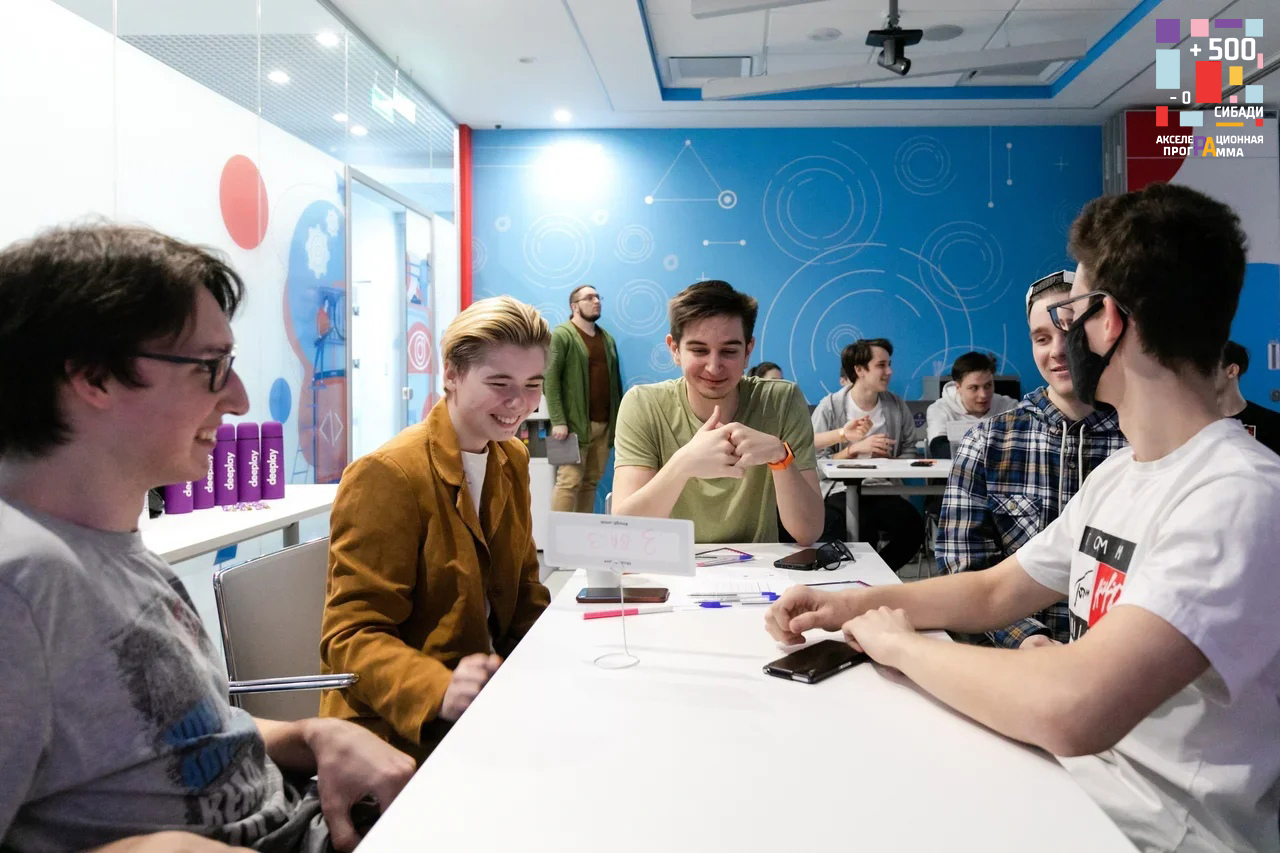
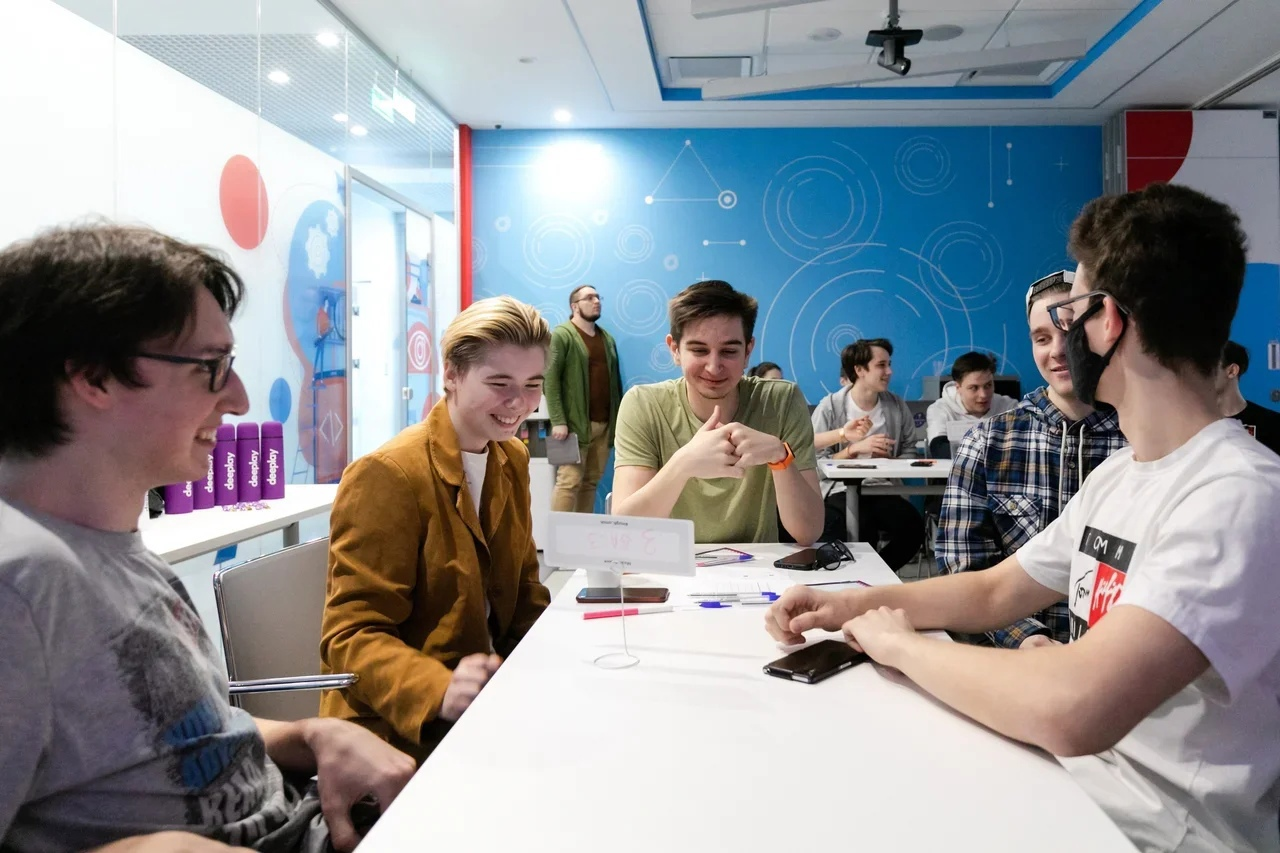
edit photos

Changed region(s): [[0.9062, 0.0, 1.0, 0.1829]]

diff --git a/src/App.vue b/src/App.vue
@@ -273,7 +273,7 @@
         <h2 class="titleNapr py-1 py-md-2">Причины, чтобы подать заявку</h2>
         <div class="row justify-content-center align-items-center">
           <div class="col-md-6 order-md-1 order-first mb-3">
-            <img class="img-fluid" src="@/assets/photos/photo2.jpg" alt="">
+            <img class="img-fluid" src="@/assets/photos/final2.jpg" alt="">
           </div>
           <div class="col-md-6 pt-md-0 order-md-2">
             <div class="row align-items-center">
